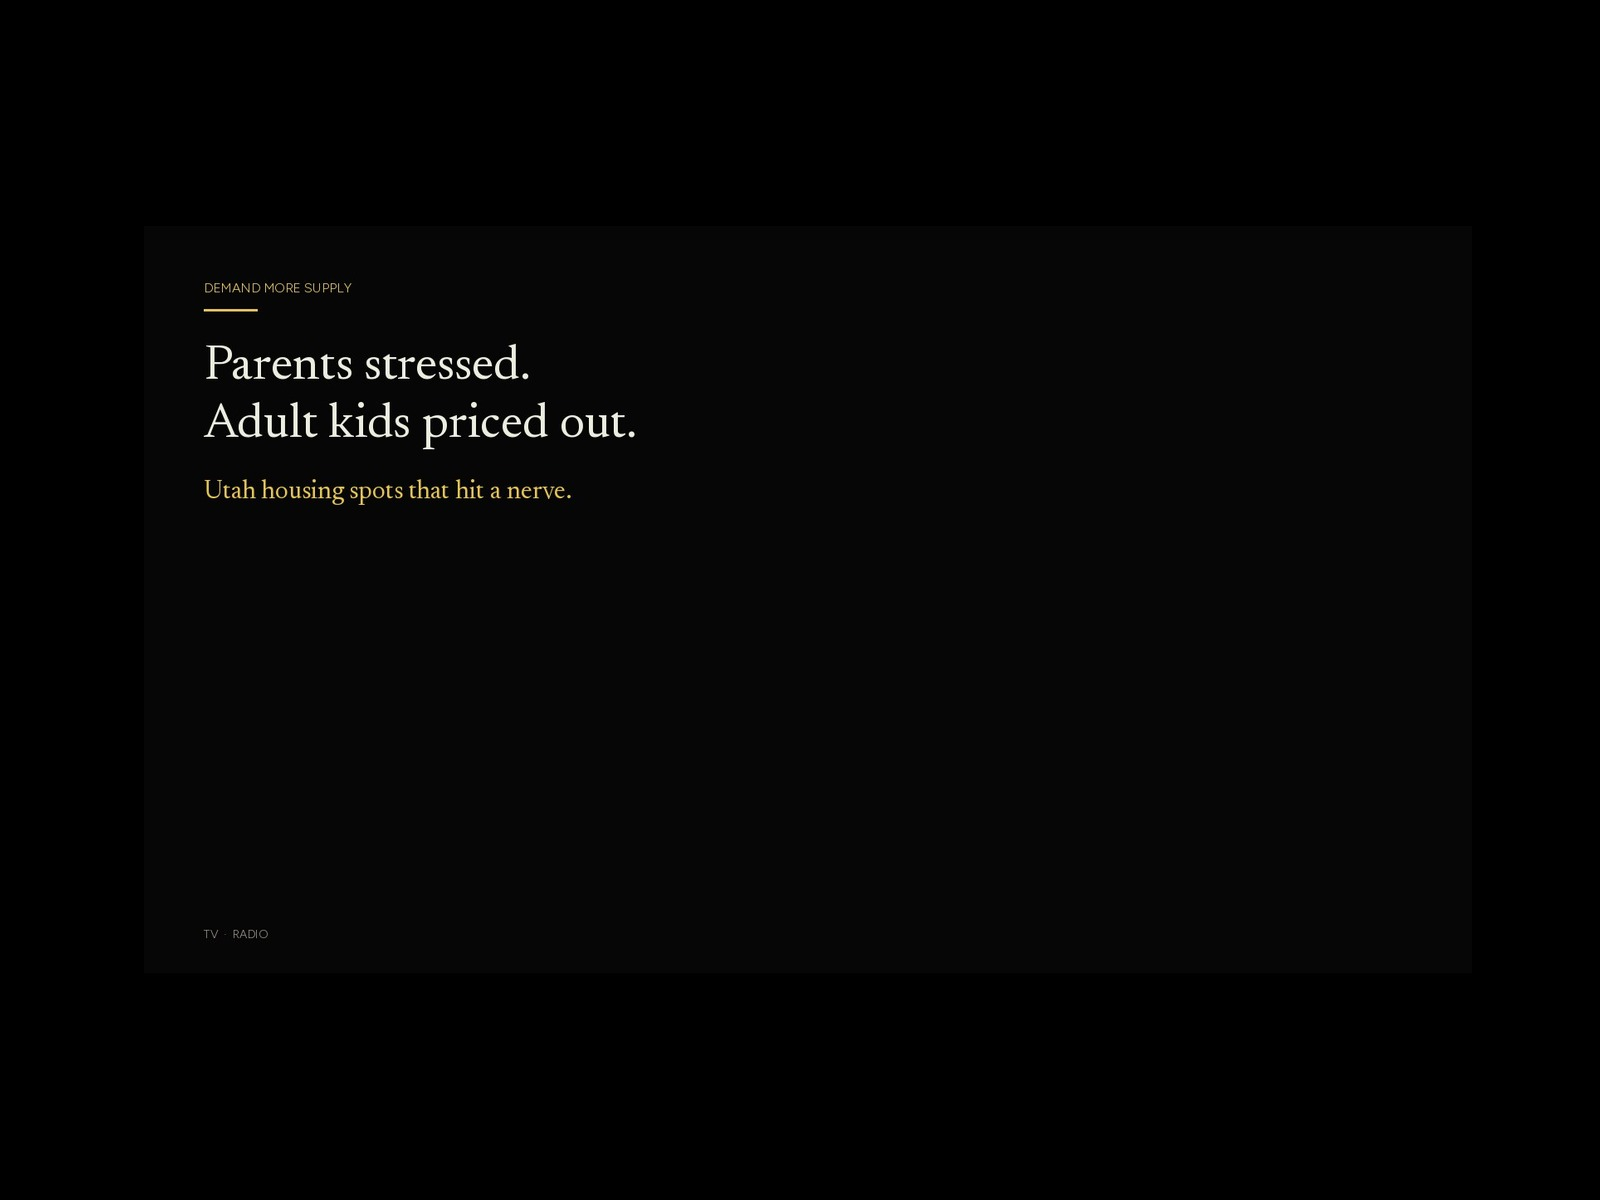
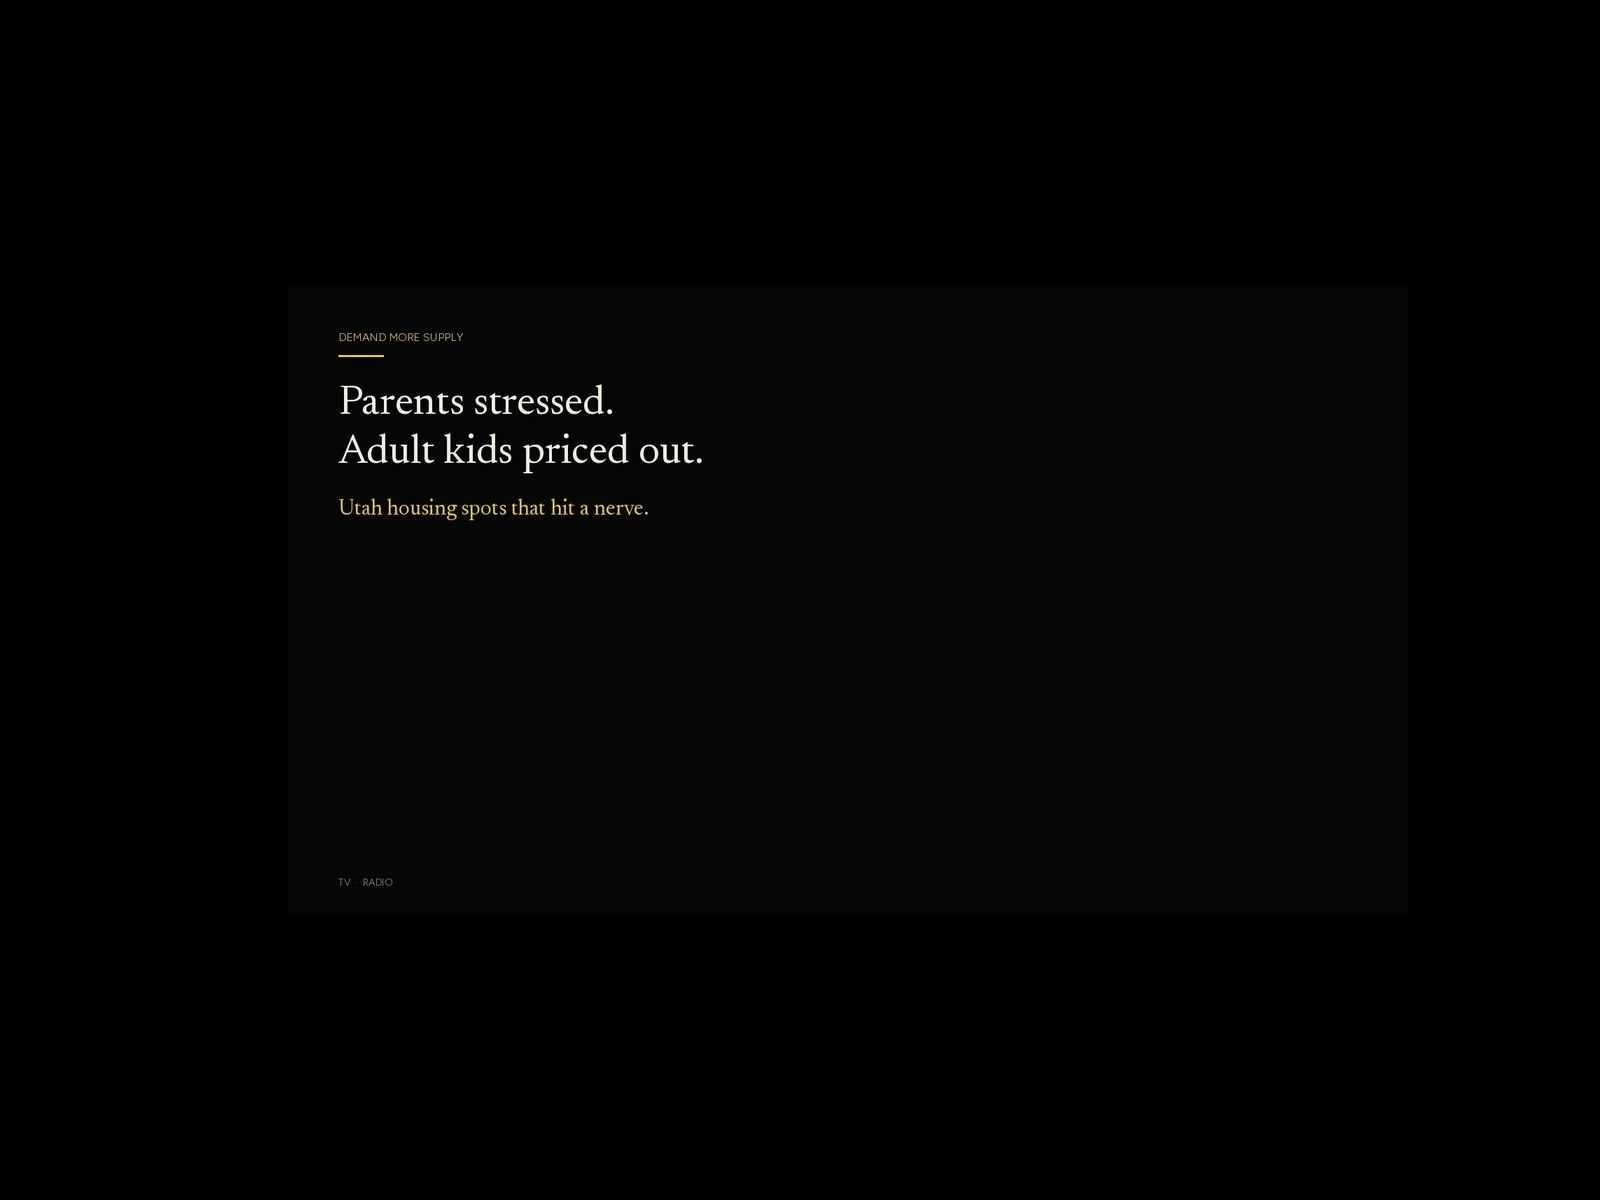
Harder inset + cover-v2 cache bust for black thumbs

Changed region(s): [[0.125, 0.2775, 0.4375, 0.4317], [0.125, 0.2158, 0.2188, 0.2467]]

diff --git a/index.html b/index.html
@@ -12,7 +12,7 @@
 <meta name="twitter:card" content="summary_large_image">
 <link rel="preconnect" href="https://fonts.googleapis.com">
 <link href="https://fonts.googleapis.com/css2?family=Figtree:wght@300;400;500;600&display=swap" rel="stylesheet">
-<link rel="stylesheet" href="css/site.css?v=love2">
+<link rel="stylesheet" href="css/site.css?v=love3">
 </head>
 <body>
 <header class="nav">
@@ -39,7 +39,7 @@
   <div class="grid">
 
     <a class="card" href="work/found-money-friend.html">
-      <div class="thumb"><img src="img/found-money-friend/cover.jpg" alt="Revenue Bloom product demo" loading="lazy"></div>
+      <div class="thumb"><img src="img/found-money-friend/cover-v2.jpg" alt="Revenue Bloom product demo" loading="lazy"></div>
       <div class="meta">
         <div>
           <strong>Revenue Bloom</strong>
@@ -50,7 +50,7 @@
     </a>
 
     <a class="card" href="work/demand-more-supply.html">
-      <div class="thumb"><img src="img/demand-more-supply/cover.jpg" alt="Demand More Supply Utah housing campaign" loading="lazy"></div>
+      <div class="thumb"><img src="img/demand-more-supply/cover-v2.jpg" alt="Demand More Supply Utah housing campaign" loading="lazy"></div>
       <div class="meta">
         <div>
           <strong>Demand More Supply</strong>
@@ -94,7 +94,7 @@
     </a>
 
     <a class="card" href="work/the-ads.html">
-      <div class="thumb"><img src="img/the-ads/cover.jpg" alt="Selected advertising work" loading="lazy"></div>
+      <div class="thumb"><img src="img/the-ads/cover-v2.jpg" alt="Selected advertising work" loading="lazy"></div>
       <div class="meta">
         <div>
           <strong>The Ads</strong>

diff --git a/css/site.css b/css/site.css
@@ -82,8 +82,7 @@ img { max-width: 100%; display: block; height: auto; }
   aspect-ratio: 4/3;
   overflow: hidden;
 }
-.card img { width: 100%; height: 100%; object-fit: cover; object-position: left center; transition: transform .4s ease; }
-.card:hover img { transform: scale(1.03); }
+.card img { width: 100%; height: 100%; object-fit: cover; object-position: left center; }
 .card .meta {
   padding: 0.85rem 0 1.6rem;
   display: flex; justify-content: space-between; gap: 1rem; align-items: flex-start;

diff --git a/contact.html b/contact.html
@@ -5,7 +5,7 @@
 <meta name="viewport" content="width=device-width, initial-scale=1">
 <title>Contact — Rhett Boyakin</title>
 <link href="https://fonts.googleapis.com/css2?family=Figtree:wght@300;400;500;600&display=swap" rel="stylesheet">
-<link rel="stylesheet" href="css/site.css?v=love2">
+<link rel="stylesheet" href="css/site.css?v=love3">
 </head>
 <body>
 <header class="nav">
